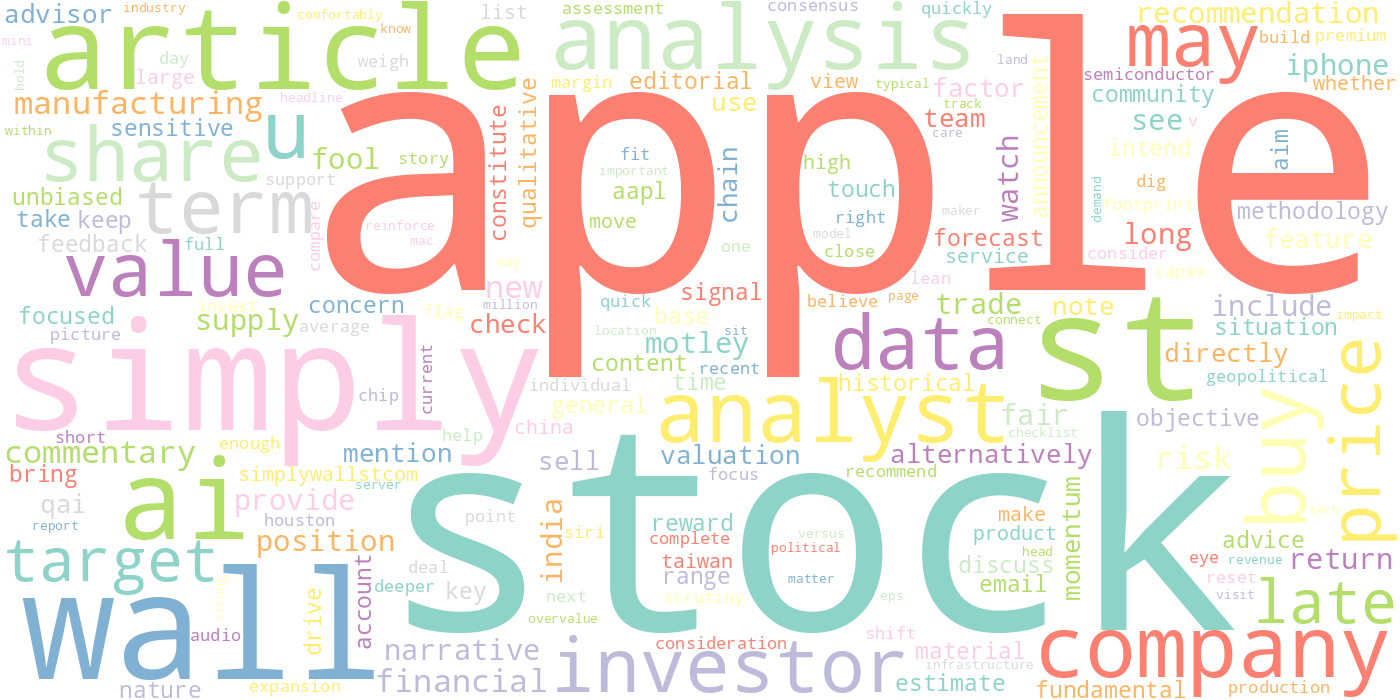
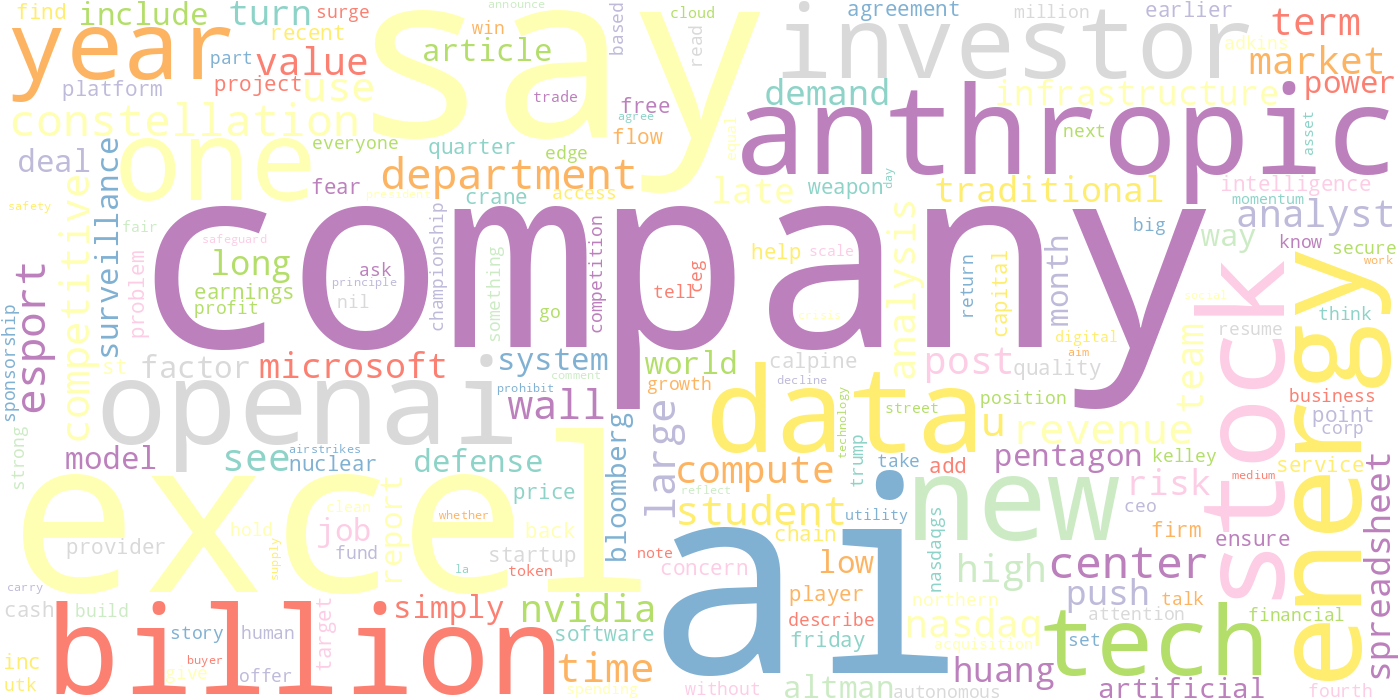
Integrated text analyzer into stock analysis

diff --git a/analyze.py b/analyze.py
@@ -120,55 +120,59 @@ def cleanseWordList(posTaggedWordTuples):
             )
     return cleansedWords
 
-# Get User Details
-welcomeUser()
-username = getUsername()
-greetUser(username)
 
-# Extract and Tokenize Text
-articleTextRaw = getArticleText()
-articleSentences = tokenizeSentences(articleTextRaw)
-articleWords = tokenizeWords(articleSentences)
 
-# Get Sentence Analytics
-stockSearchPattern = r"(^[0-9])|(\s[A-Z])|(thousand|million|billion|trillion|profit|loss)"
-keySentences = extractKeySentences(articleSentences, stockSearchPattern)
-wordsPerSentence = getWordsPerSentence(articleSentences)
+def analyzeText(textToAnalyze):
+    articleSentences = tokenizeSentences(textToAnalyze)
+    articleWords = tokenizeWords(articleSentences)
 
-# Get Word analytics
-wordsPosTagged = nltk.pos_tag(articleWords)
-articleWordsCleansed = cleanseWordList(wordsPosTagged)
+    # Get Sentence Analytics
+    stockSearchPattern = r"(^[0-9])|(\s[A-Z])|(thousand|million|billion|trillion|profit|loss)"
+    keySentences = extractKeySentences(articleSentences, stockSearchPattern)
+    wordsPerSentence = getWordsPerSentence(articleSentences)
 
-# Generate word cloud
-wordCloudFilePath = "results/wordcloud.png"
-separator = " "
-wordcloud = WordCloud(width=1400, height=700,
-                       background_color="white",
-                       colormap="Set3",
-                       collocations=False).generate(separator.join(articleWordsCleansed))
-wordcloud.to_file(wordCloudFilePath)
+    # Get Word analytics
+    wordsPosTagged = nltk.pos_tag(articleWords)
+    articleWordsCleansed = cleanseWordList(wordsPosTagged)
 
-# Run sentiment analysis
-sentimentResult = sentimentAnalyzer.polarity_scores(articleTextRaw)
+    # Generate word cloud
+    wordCloudFilePath = "results/wordcloud.png"
+    separator = " "
+    wordcloud = WordCloud(width=1400, height=700,
+                        background_color="white",
+                        colormap="Set3",
+                        collocations=False).generate(separator.join(articleWordsCleansed))
+    wordcloud.to_file(wordCloudFilePath)
 
-# Collate analysis into one dictionary
-finalResult = {
-    "username": username,
-    "data": {
-        "keySentences": keySentences,
-        "wordsPerSentence": round(wordsPerSentence, 1),
-        "sentiment": sentimentResult,
-        "wordCloudFilePath": wordCloudFilePath
-        
-    },
-    "metadata": {
-        "sentencesAnalyzed": "files/article.txt",
-        "wordsAnalyzed": len(articleSentences)
+    # Run sentiment analysis
+    sentimentResult = sentimentAnalyzer.polarity_scores(textToAnalyze)
+
+    # Collate analysis into one dictionary
+    finalResult = {
+        "data": {
+            "keySentences": keySentences,
+            "wordsPerSentence": round(wordsPerSentence, 1),
+            "sentiment": sentimentResult,
+            "wordCloudFilePath": wordCloudFilePath
+            
+        },
+        "metadata": {
+            "sentencesAnalyzed": "files/article.txt",
+            "wordsAnalyzed": len(articleSentences)
+        }
     }
-}
-finalResultList = json.dumps(finalResult, indent=4)
+    
 
+    return finalResult
 
-# Finish the testing
+    
 
-print(finalResultList)
+# Get User Details
+def runAsFile():    
+    welcomeUser()
+    username = getUsername()
+    greetUser(username)
+
+    # Extract and Tokenize Text
+    articleTextRaw = getArticleText()
+    analyzeText(articleTextRaw)

diff --git a/stockAnalyze.py b/stockAnalyze.py
@@ -5,6 +5,7 @@ import requests
 import pprint
 import json
 from bs4 import BeautifulSoup
+import analyze
 
 
 def extractBasicInfo(data):
@@ -141,9 +142,9 @@ def getCompanyStockInfo(tickerSymbol):
     newsArticles = getCompanyNews(company)
     # print(json.dumps(newsArticles, indent=2))
     newsArticlesAllText = extractCompanyNewsArticles(newsArticles)
+    newsTextAnalysuis = analyze.analyzeText(newsArticlesAllText)
+    finalResultList = json.dumps(newsTextAnalysuis, indent=4)
+    print(finalResultList)
 
-    return newsArticlesAllText
 
-
-newsArticlesAllText = getCompanyStockInfo("MSFT")
-print(newsArticlesAllText)
+getCompanyStockInfo("MSFT")
